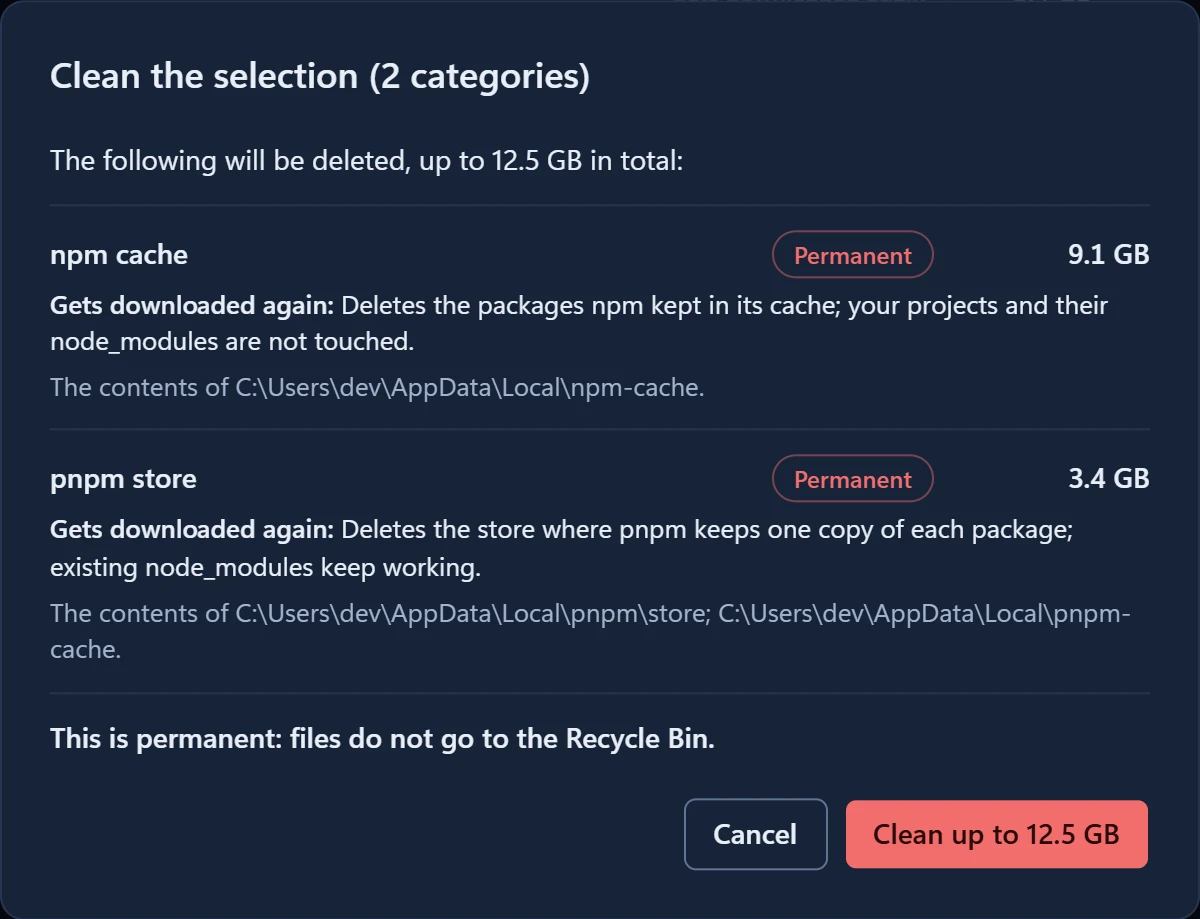
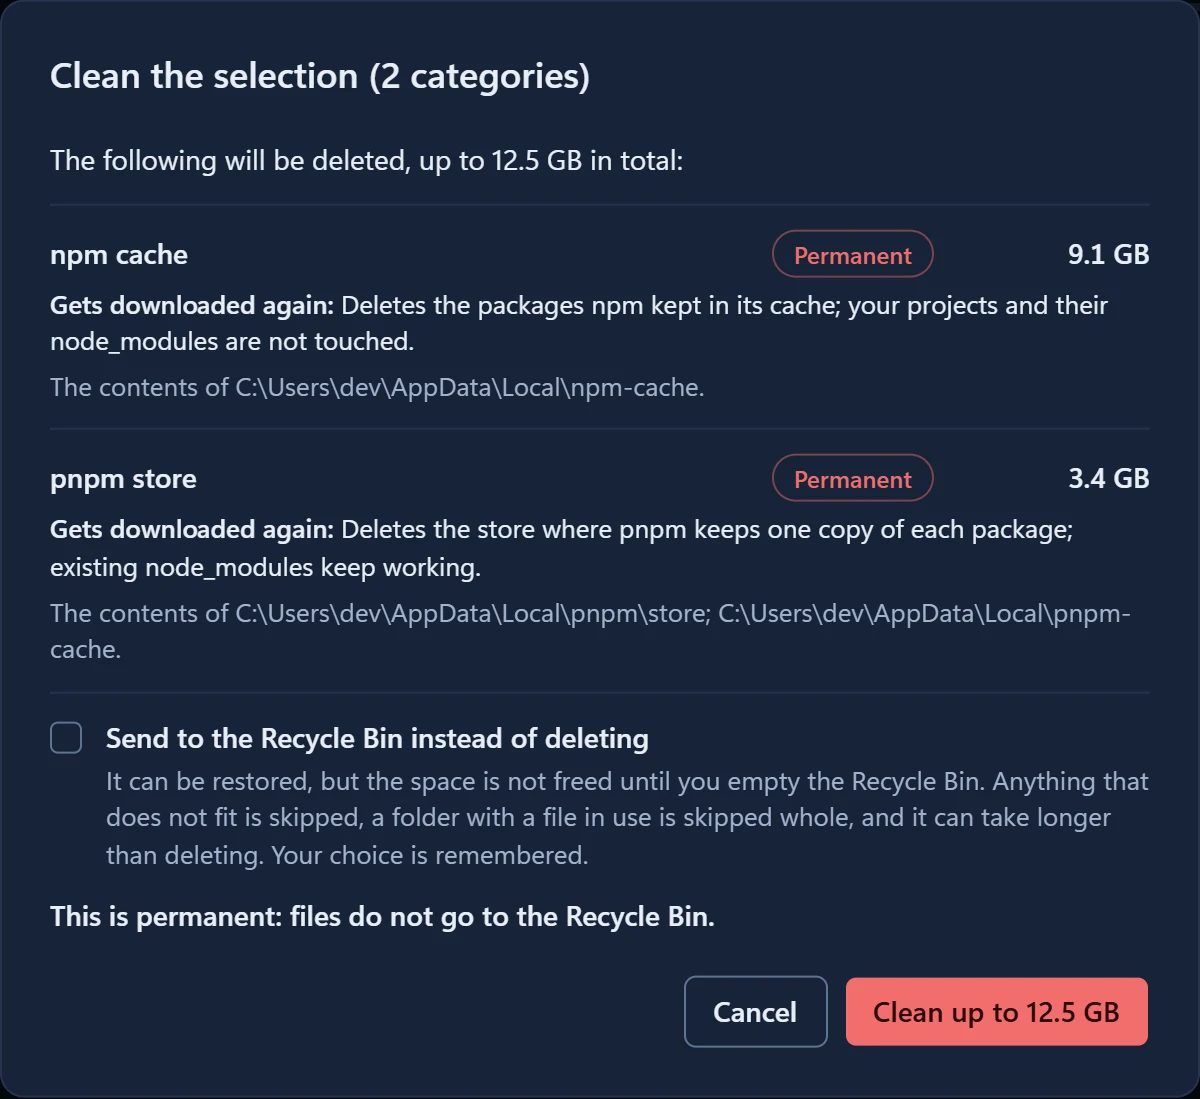
docs: capturas del sitio con la casilla de la Papelera y el aviso de uso nuevo
Rehechas desde la demo, en espanol e ingles: la confirmacion (con la casilla
"Enviar a la Papelera de reciclaje en vez de borrar") y el aviso de uso (con
el primer punto actualizado). Alturas y textos alternativos al dia.

diff --git a/site/index.html b/site/index.html
@@ -109,8 +109,8 @@ document.documentElement.lang = i === 'es' || i === 'en' ? i : (navigator.langua
         <figure class="tarjeta ancha">
           <figcaption class="fig"><span lang="es">FIG 5 · Confirmas antes de borrar</span><span lang="en">FIG 5 · You confirm before deleting</span></figcaption>
           <div class="captura recorte">
-            <a lang="es" href="capturas/confirmar-es.webp"><img src="capturas/confirmar-es.webp" width="600" height="460" loading="lazy" decoding="async" alt="La confirmación: lista las dos cachés que se van a borrar, con su tamaño, su ruta y la etiqueta Definitivo, y avisa de que no pasan por la Papelera"></a>
-            <a lang="en" href="capturas/confirmar-en.webp"><img src="capturas/confirmar-en.webp" width="600" height="460" loading="lazy" decoding="async" alt="The confirmation: it lists the two caches about to be deleted, with their size, their path and the Permanent label, and warns that they skip the Recycle Bin"></a>
+            <a lang="es" href="capturas/confirmar-es.webp"><img src="capturas/confirmar-es.webp" width="600" height="549" loading="lazy" decoding="async" alt="La confirmación: lista las dos cachés que se van a borrar, con su tamaño, su ruta y la etiqueta Definitivo; debajo, la casilla para enviarlas a la Papelera de reciclaje en vez de borrarlas"></a>
+            <a lang="en" href="capturas/confirmar-en.webp"><img src="capturas/confirmar-en.webp" width="600" height="549" loading="lazy" decoding="async" alt="The confirmation: it lists the two caches about to be deleted, with their size, their path and the Permanent label; below, the checkbox to send them to the Recycle Bin instead of deleting them"></a>
           </div>
           <p class="suave fig-pie"><span lang="es">Nada se borra sin confirmación. La lista dice cada elemento, su tamaño y su ruta, y si el borrado es definitivo o va a la Papelera. <a href="producto.html#seguridad">Todas las garantías</a></span><span lang="en">Nothing is deleted without confirmation. The list names every item, its size and its path, and says whether the deletion is permanent or goes to the Recycle Bin. <a href="producto.html#seguridad">Every safeguard</a></span></p>
         </figure>

diff --git a/site/producto.html b/site/producto.html
@@ -97,8 +97,8 @@ document.documentElement.lang = i === 'es' || i === 'en' ? i : (navigator.langua
         <figure class="tarjeta">
           <figcaption class="fig"><span lang="es">FIG 3 · El aviso de uso</span><span lang="en">FIG 3 · The usage notice</span></figcaption>
           <div class="captura recorte">
-            <a lang="es" href="capturas/terminos-es.webp"><img src="capturas/terminos-es.webp" width="600" height="611" loading="lazy" decoding="async" alt="Los términos de uso dentro de la app, con la casilla «He leído y acepto estos términos» y los botones Cancelar y Aceptar"></a>
-            <a lang="en" href="capturas/terminos-en.webp"><img src="capturas/terminos-en.webp" width="600" height="611" loading="lazy" decoding="async" alt="The terms of use inside the app, with the “I have read and accept these terms” checkbox and the Cancel and Accept buttons"></a>
+            <a lang="es" href="capturas/terminos-es.webp"><img src="capturas/terminos-es.webp" width="600" height="631" loading="lazy" decoding="async" alt="Los términos de uso dentro de la app, con la casilla «He leído y acepto estos términos» y los botones Cancelar y Aceptar"></a>
+            <a lang="en" href="capturas/terminos-en.webp"><img src="capturas/terminos-en.webp" width="600" height="631" loading="lazy" decoding="async" alt="The terms of use inside the app, with the “I have read and accept these terms” checkbox and the Cancel and Accept buttons"></a>
           </div>
           <p class="suave fig-pie"><span lang="es">Antes de la primera acción que borra, la app muestra sus <a href="terminos.html">términos de uso</a> y pide aceptarlos.</span><span lang="en">Before the first action that deletes, the app shows its <a href="terminos.html">terms of use</a> and asks you to accept them.</span></p>
         </figure>
